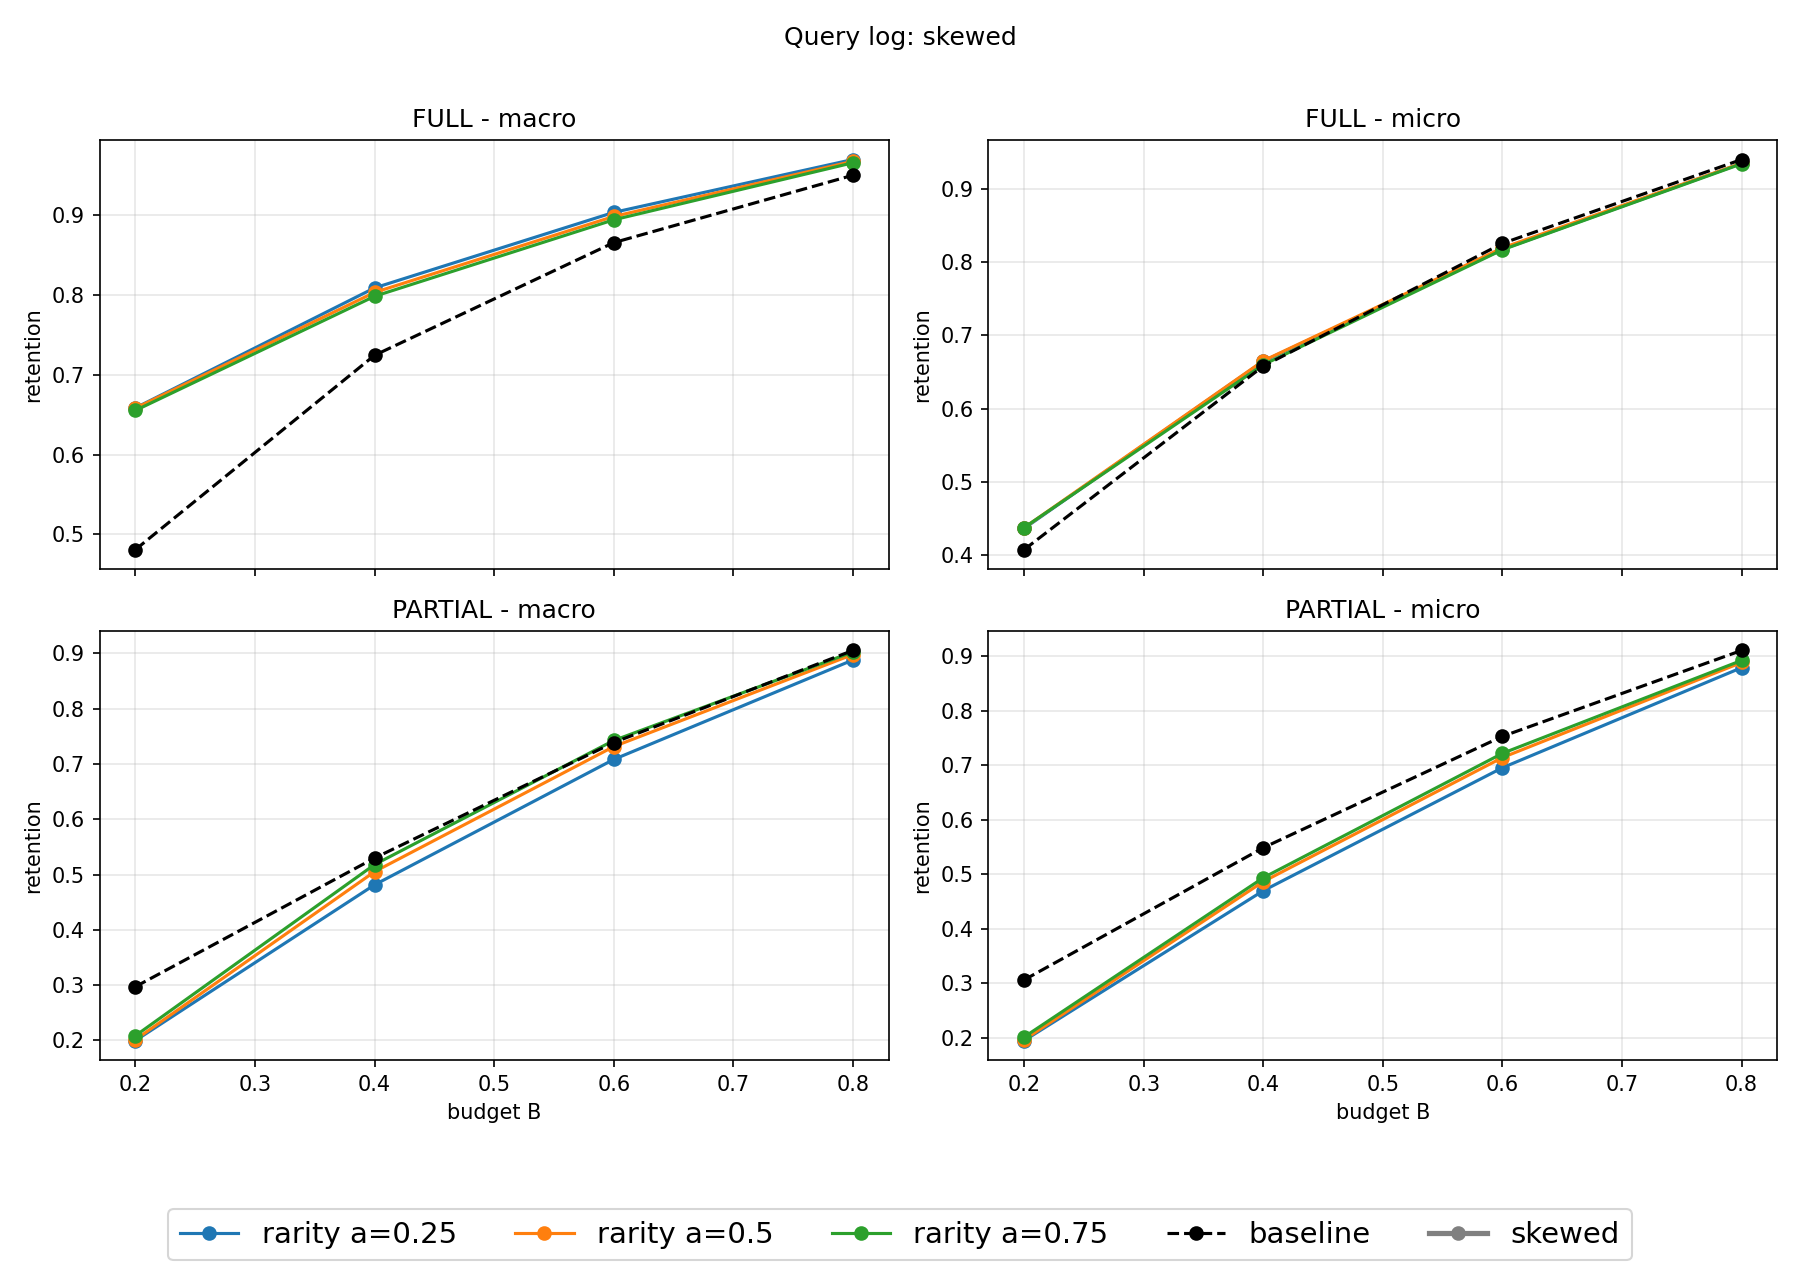
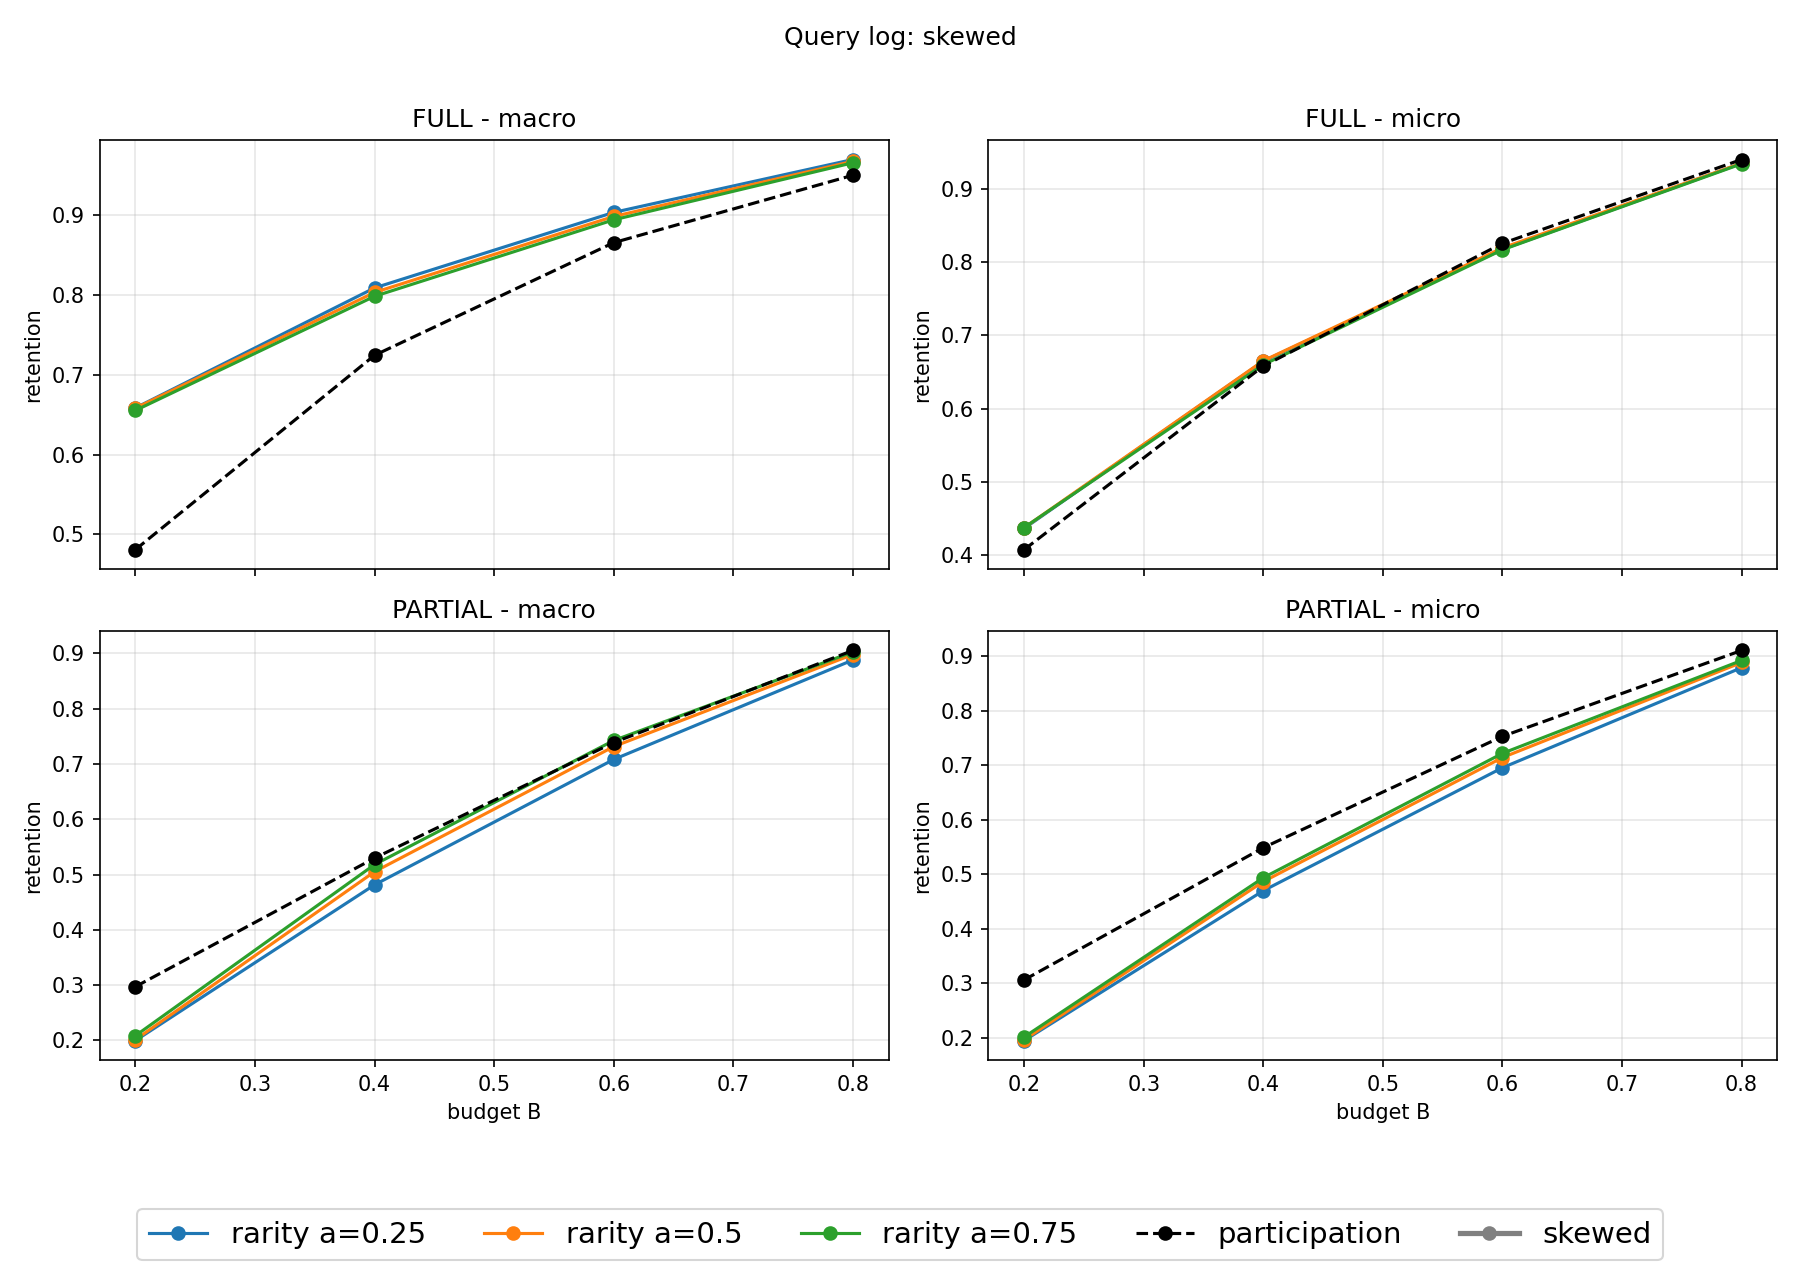
docs: new figures

diff --git a/spark_experiments.py b/spark_experiments.py
@@ -12,7 +12,7 @@ import pyspark
 from pyspark.sql import SparkSession
 
 from spark_query_engine import SparkQueryEngine
-from spark_reducer import SparkBaselineReducer, SparkRarityReducer
+from spark_reducer import SparkParticipationReducer, SparkRarityReducer
 from spark_evaluator import SparkRetentionEvaluator
 
 # Enviromental Setup
@@ -56,7 +56,7 @@ def qlog_labels(args):
     return labels
 
 def series_of(rows):
-    """Distinct (method, alpha) lines: rarity alphas first, baseline last."""
+    """Distinct (method, alpha) lines: rarity alphas first, participation last."""
     return sorted({(r["method"], r["alpha"]) for r in rows},
                   key=lambda s: (s[0] != "rarity", str(s[1])))
 
@@ -77,7 +77,7 @@ class SparkExperimentRunner:
         if method == "rarity":
             reducer = SparkRarityReducer(self.spark, num_graphs, retain_percentage=budget, alpha=alpha)
         else:
-            reducer = SparkBaselineReducer(self.spark, num_graphs, retain_percentage=budget)
+            reducer = SparkParticipationReducer(self.spark, num_graphs, retain_percentage=budget)
             
         reducer.calculate_scores(matches_df)
         kept_df = reducer.reduce()
@@ -104,7 +104,7 @@ class SparkExperimentRunner:
         print(f"Graphs: {engine.num_graphs} | Queries: {len(engine.queries)} | "
               f"Matches: {num_matches} | match time {match_time:.2f}s")
 
-        configs = [("rarity", a) for a in self.args.alphas] + [("baseline", None)]
+        configs = [("rarity", a) for a in self.args.alphas] + [("participation", None)]
         rows = []
         
         for method, alpha in configs:
@@ -115,7 +115,7 @@ class SparkExperimentRunner:
             if method == "rarity":
                 reducer = SparkRarityReducer(self.spark, engine.num_graphs, alpha=alpha_val)
             else:
-                reducer = SparkBaselineReducer(self.spark, engine.num_graphs)
+                reducer = SparkParticipationReducer(self.spark, engine.num_graphs)
                 
             scores_df = reducer.calculate_scores(matches_df).cache()
             scores_df.count() # Force Spark execution
@@ -172,7 +172,7 @@ class SparkExperimentRunner:
             compare_exp1(results[labels[0]], results[labels[1]], labels, self.out_dir)
 
     def run_experiment2(self):
-        methods = [("rarity", self.args.alpha), ("baseline", 0.5)]
+        methods = [("rarity", self.args.alpha), ("participation", 0.5)]
         rows = []
         
         for name, db, qlog in self.args.dataset:
@@ -245,7 +245,7 @@ def plot_exp1(rows, path, title=None):
     palette = plt.get_cmap("tab10")
     colors = {}
     for i, s in enumerate(all_series):
-        colors[s] = "black" if s[0] == "baseline" else palette(i % 10)
+        colors[s] = "black" if s[0] == "participation" else palette(i % 10)
 
     # Matched figsize with plot_compare_exp1
     fig, axes = plt.subplots(2, 2, figsize=(12, 8.5), sharex=True)
@@ -257,8 +257,8 @@ def plot_exp1(rows, path, title=None):
             method, alpha = s
             pts = sorted((r["budget"], r[key]) for r in rows
                          if (r["method"], r["alpha"]) == s)
-            label = f"rarity a={alpha}" if method == "rarity" else "baseline"
-            ax.plot(*zip(*pts), marker="o", linestyle="--" if method == "baseline" else "-",
+            label = f"rarity a={alpha}" if method == "rarity" else "participation"
+            ax.plot(*zip(*pts), marker="o", linestyle="--" if method == "participation" else "-",
                     color=colors[s], label=label)
         ax.set_title(panel_title)
         ax.set_ylabel("retention")
@@ -269,8 +269,8 @@ def plot_exp1(rows, path, title=None):
 
     # Create figure-level legend handles exactly like plot_compare_exp1
     method_handles = [Line2D([0], [0], color=colors[s], marker="o",
-                             linestyle="--" if s[0] == "baseline" else "-",
-                             label=f"rarity a={s[1]}" if s[0] == "rarity" else "baseline")
+                             linestyle="--" if s[0] == "participation" else "-",
+                             label=f"rarity a={s[1]}" if s[0] == "rarity" else "participation")
                       for s in all_series]
                       
     log_handles = []
@@ -330,7 +330,7 @@ def plot_compare_exp1(rows_a, rows_b, labels, path):
     palette = plt.get_cmap("tab10")
     colors = {}
     for i, s in enumerate(all_series):
-        colors[s] = "black" if s[0] == "baseline" else palette(i % 10)
+        colors[s] = "black" if s[0] == "participation" else palette(i % 10)
 
     fig, axes = plt.subplots(2, 2, figsize=(12, 8.5), sharex=True)
     panels = [("full_macro", "FULL - macro"), ("full_micro", "FULL - micro"),
@@ -348,7 +348,7 @@ def plot_compare_exp1(rows_a, rows_b, labels, path):
         ax.set_xlabel("budget B")
 
     method_handles = [Line2D([0], [0], color=colors[s],
-                             label=f"rarity a={s[1]}" if s[0] == "rarity" else "baseline")
+                             label=f"rarity a={s[1]}" if s[0] == "rarity" else "participation")
                       for s in all_series]
     log_handles = [Line2D([0], [0], color="gray", linestyle=ls, marker=mk, label=lab, linewidth=2.5)
                    for (ls, mk), lab in zip(styles, labels)]

diff --git a/spark_reducer.py b/spark_reducer.py
@@ -27,7 +27,7 @@ class SparkReducer(ABC):
                    .cache())
         return kept_df
 
-class SparkBaselineReducer(SparkReducer):
+class SparkParticipationReducer(SparkReducer):
     def calculate_scores(self, matches_df):
         weighted = matches_df.withColumn("w", F.when(F.col("type") == "FULL", 2.0).otherwise(1.0))
         per_graph = weighted.groupBy("gid").agg(F.sum("w").alias("score"))
